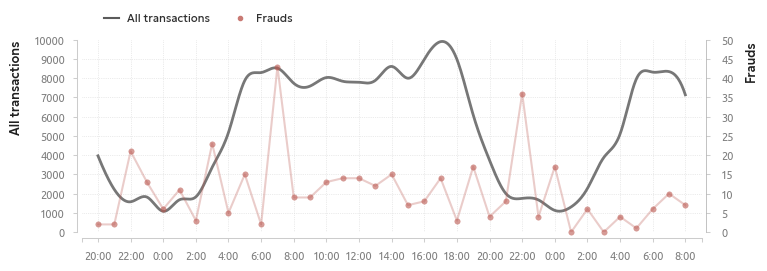
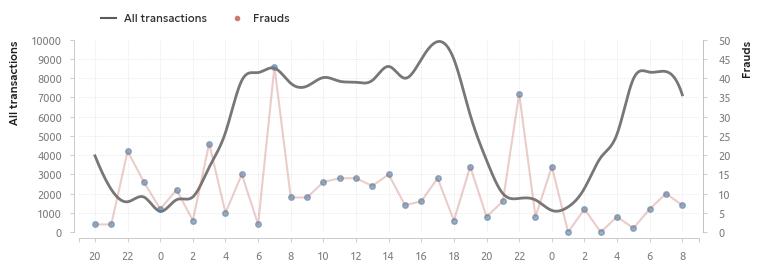
upd

diff --git a/docs/index.html b/docs/index.html
@@ -33,7 +33,7 @@
       Credit Card Fraud Detection Dataset
     </h1>
     <h5 style='text-align:right;margin-top:-0.5em;'>
-       2Разведочный анализ данных (EDA)
+       3Разведочный анализ данных (EDA)
     </h5>
     <span
         style='display:inline-block;margin-top:0.8em;'>
@@ -41,7 +41,7 @@
             <span style='display:inline-block;'>
                 <img
                     src='img/logo-cards.png'
-                    style='width:1.7em;vertical-align:-0.6em;'>
+                    style='width:1.6em;vertical-align:-0.5em;'>
               <!-- style='width:1.5em;vertical-align:-0.35em; -->
               <!-- style='width:1.25em;vertical-align:-0.288em; -->
                 </span>
@@ -112,6 +112,12 @@
    <ul>
     <li>если первая транзакция, время в секундах которой равно 0, была совершена в 20:00, то первая полночь (первый минимум гистограммы) приходится на 14400 секунд, а вторая - на 100800;</li>
   </ul>
+
+  Преобраованная переменная <i>Time</i> выглядит следующим образом.
+
+  <img-margin>
+    <img src='img/01-explore/time_datetime_hist.png'>
+  </img-margin>
   
   
   